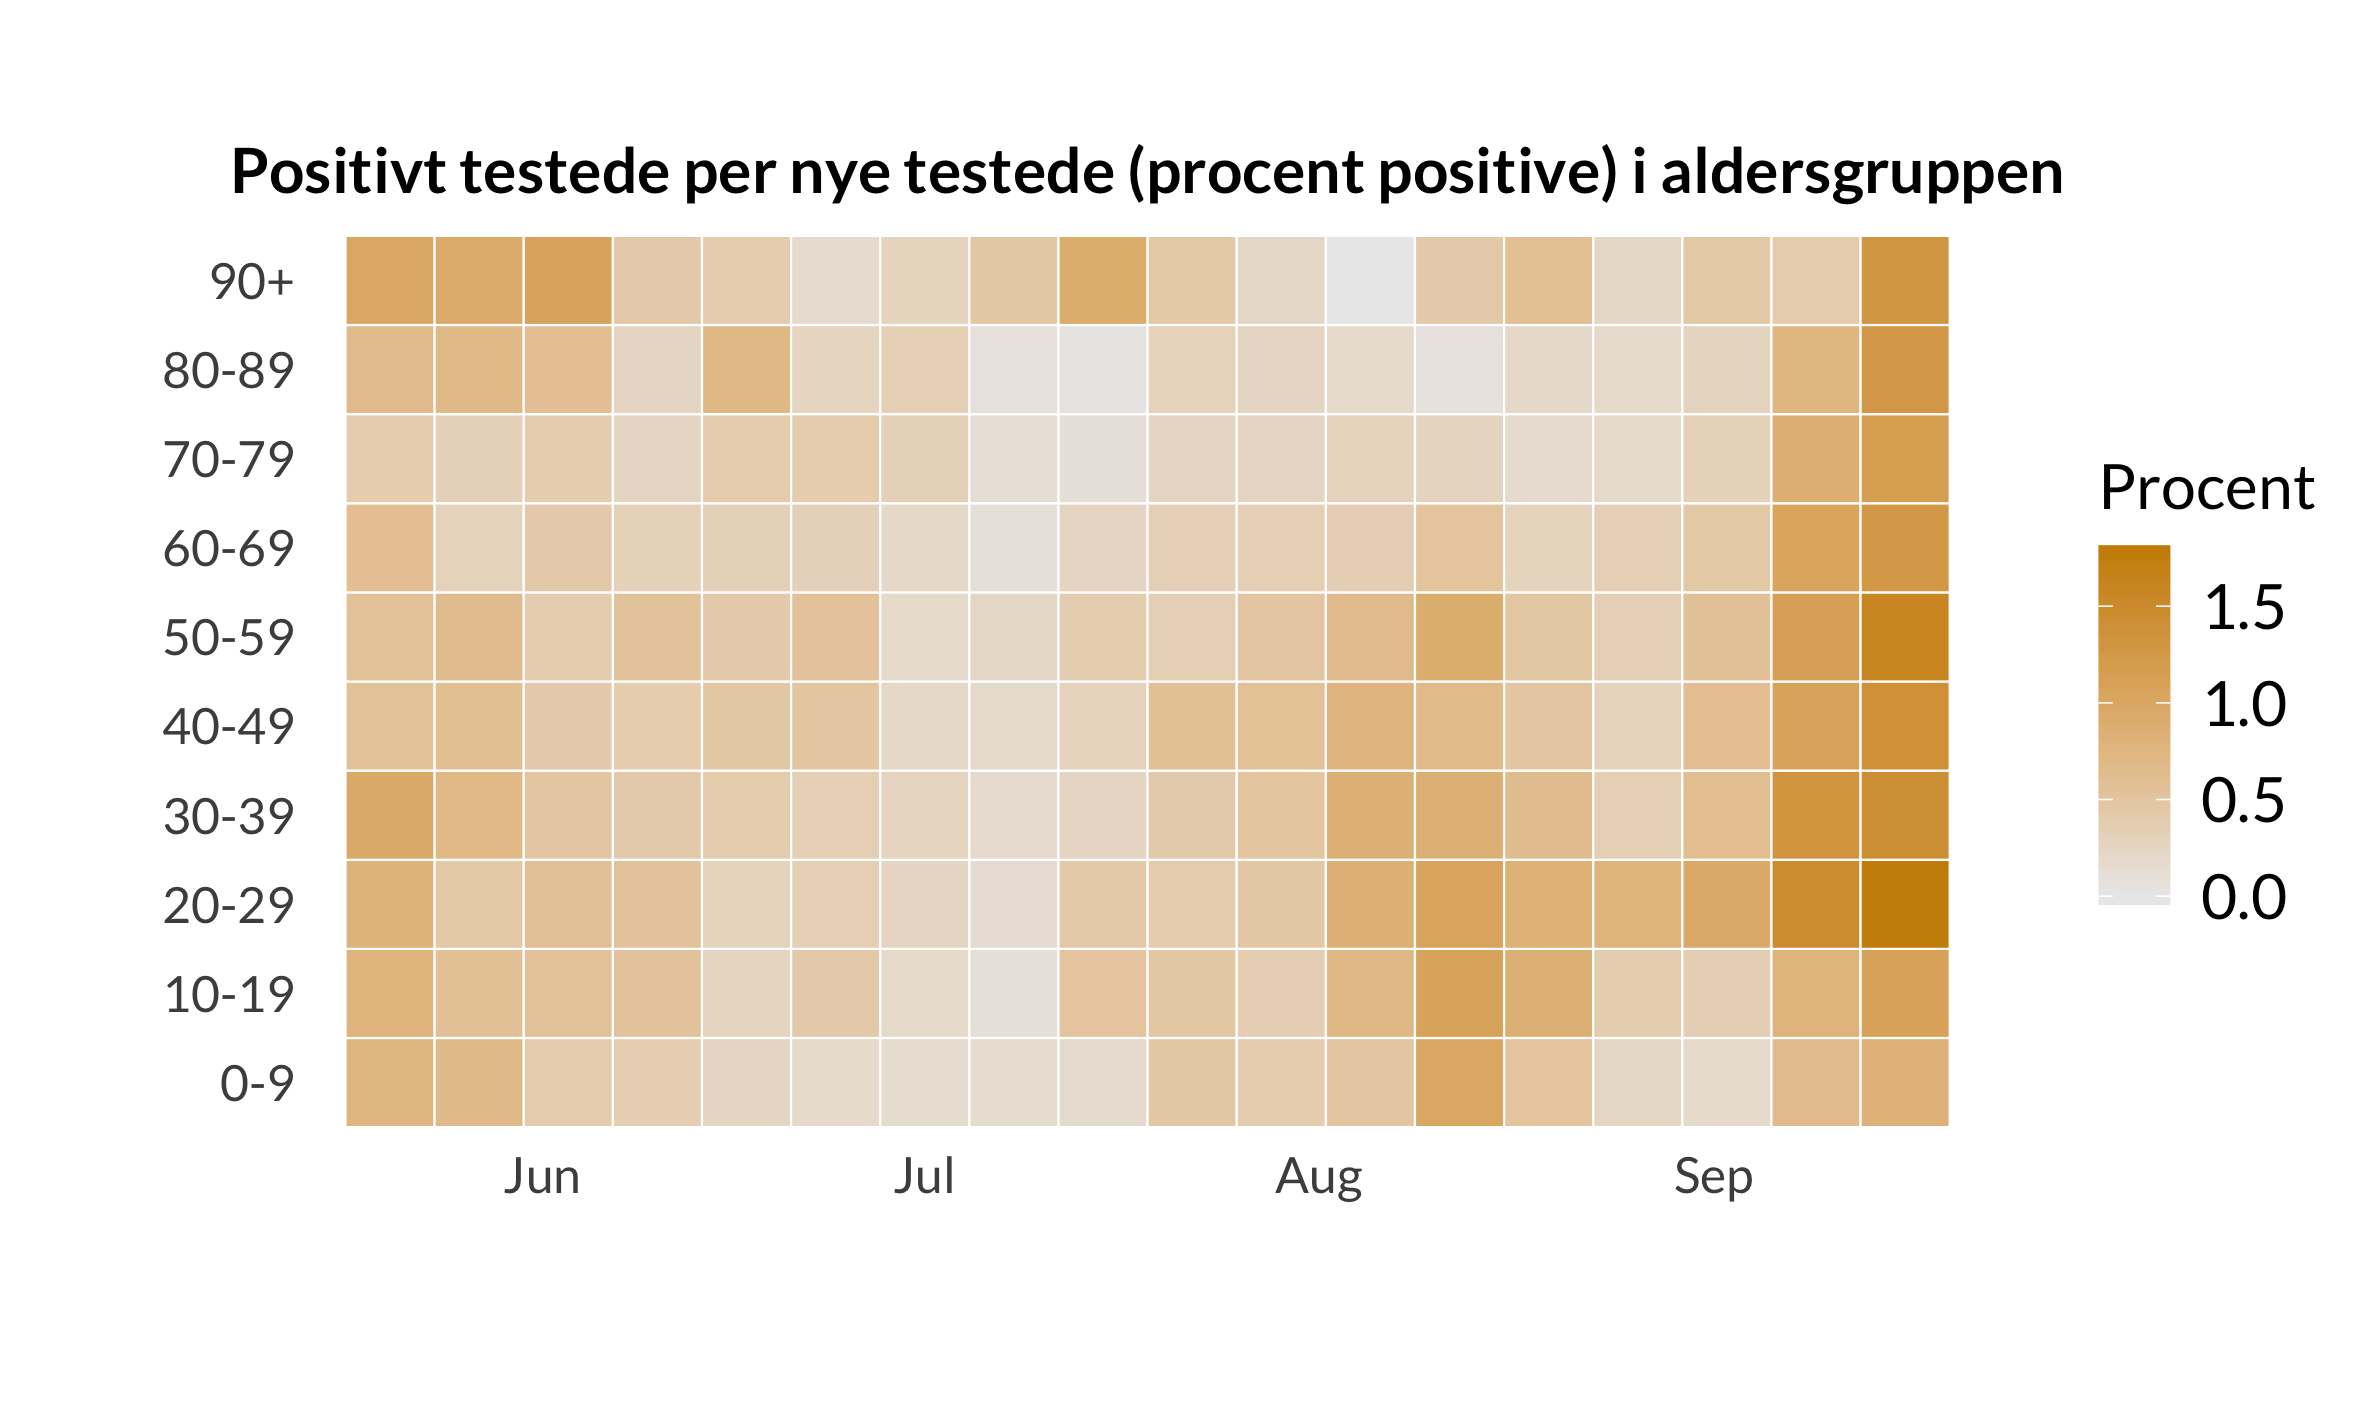
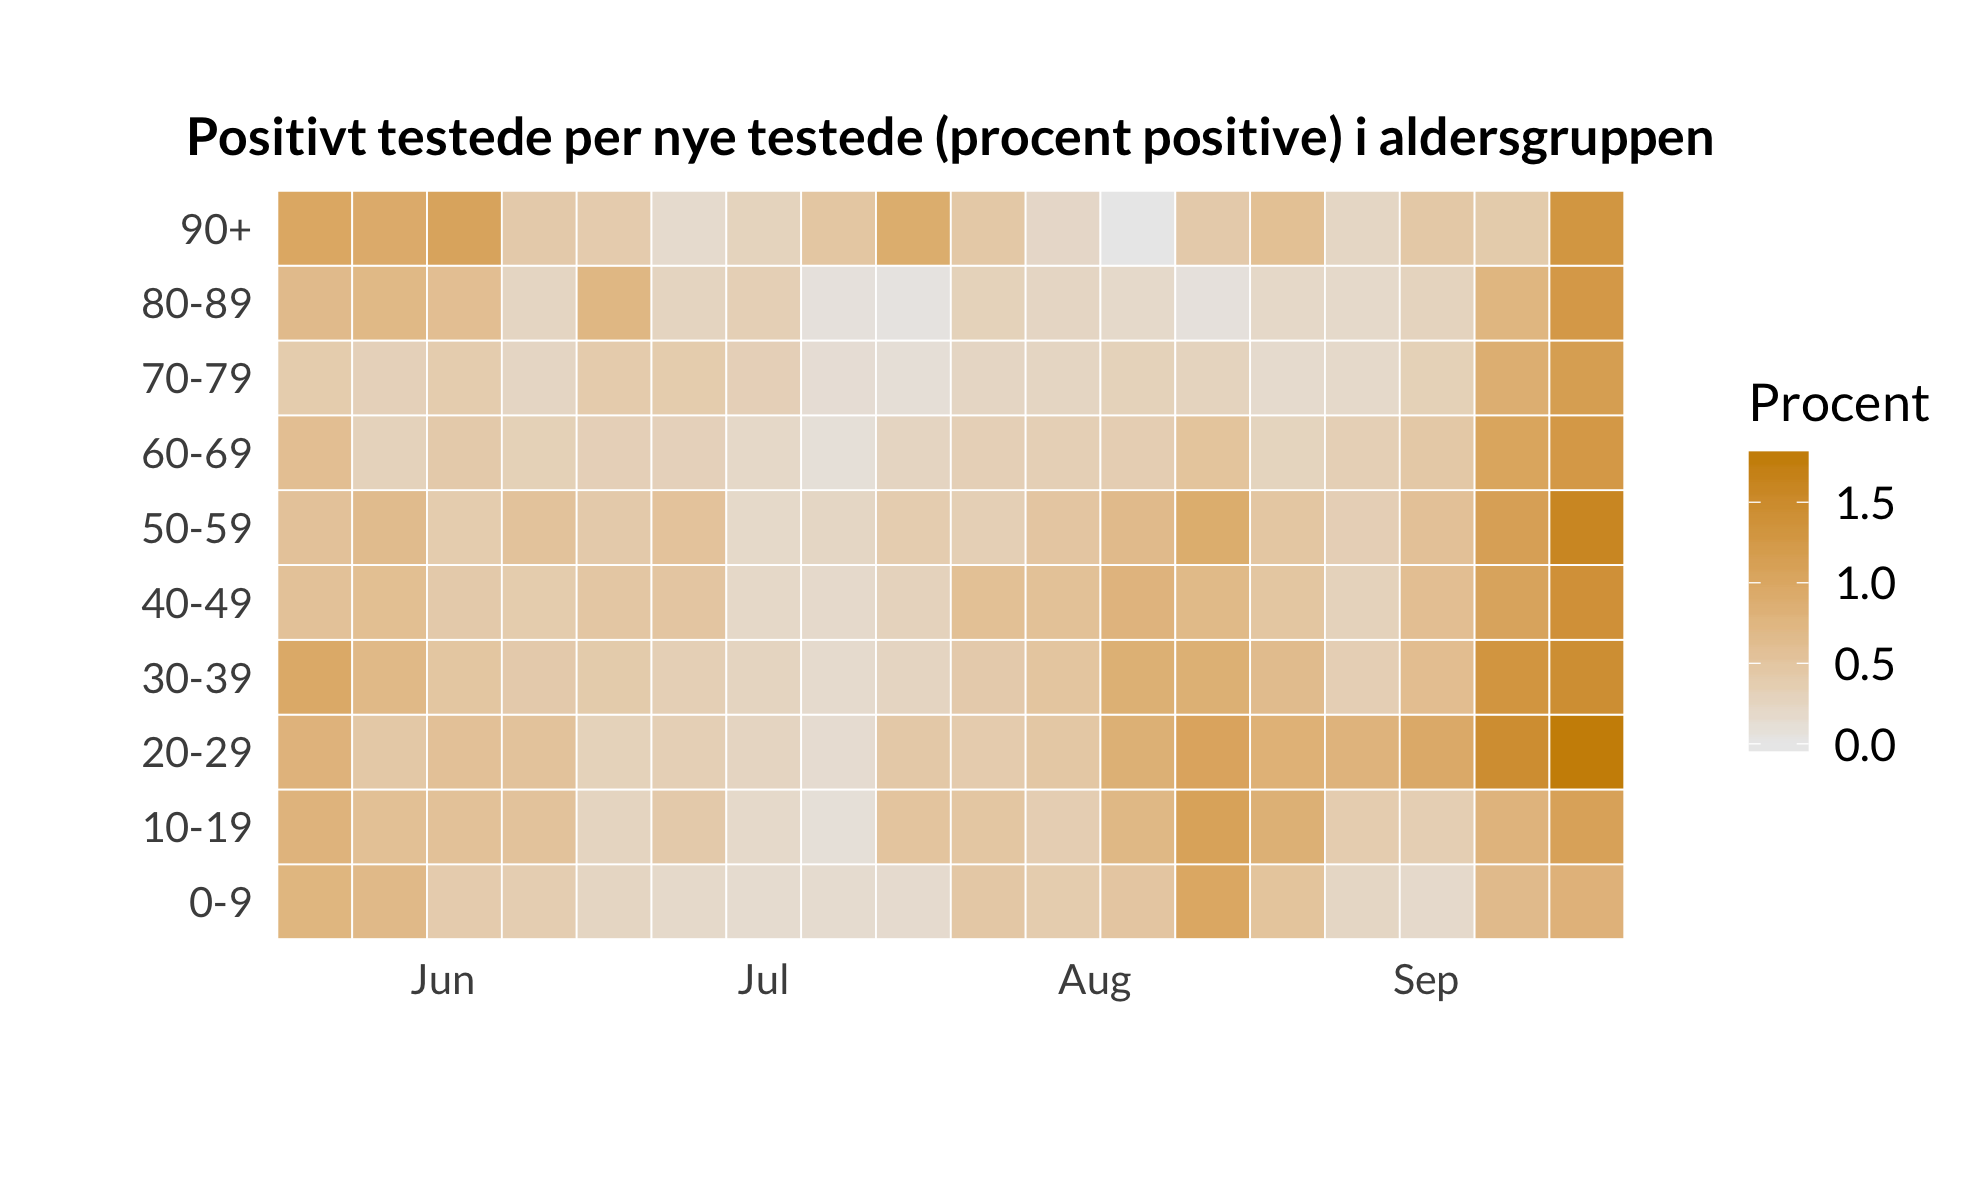
Update plots

diff --git a/README.md b/README.md
@@ -172,6 +172,9 @@ Bemærk at antal testede i de aldersopdelte data er *nye* testede, altså person
 
 ![](https://github.com/ktbaek/COVID-19-Danmark/blob/master/figures/age_weekly_pct_tile.png)
 
+![](https://github.com/ktbaek/COVID-19-Danmark/blob/master/figures/age_weekly_pct_tile_may.png)
+
+
 
 
 ![](https://github.com/ktbaek/COVID-19-Danmark/blob/master/figures/age_weekly_tests_tile.png)
